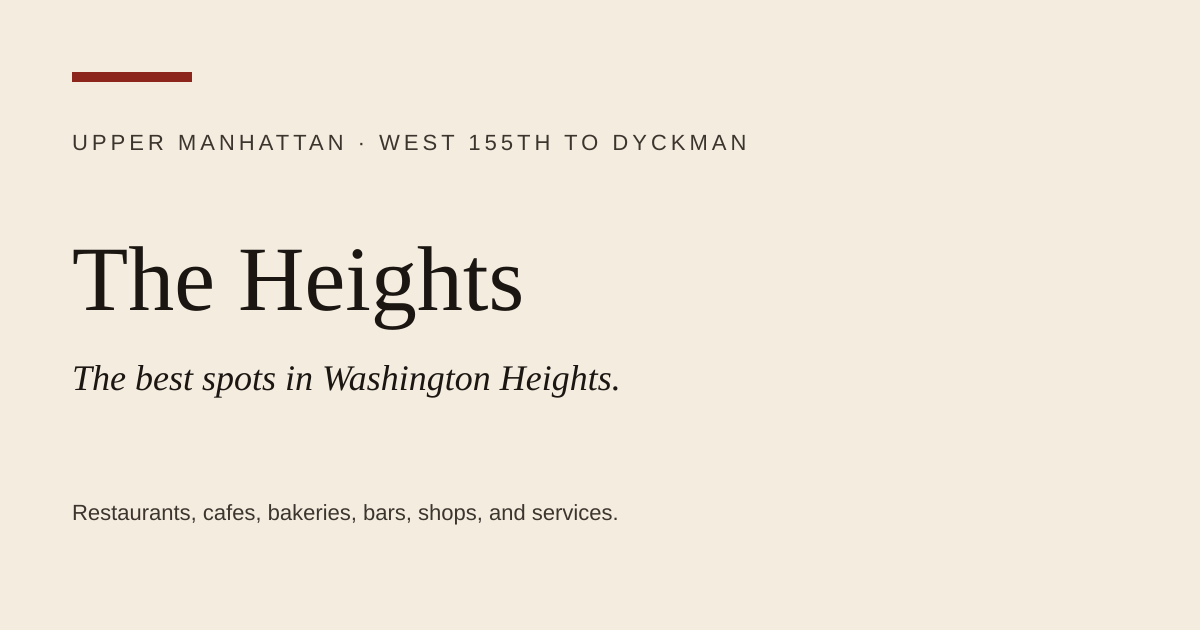
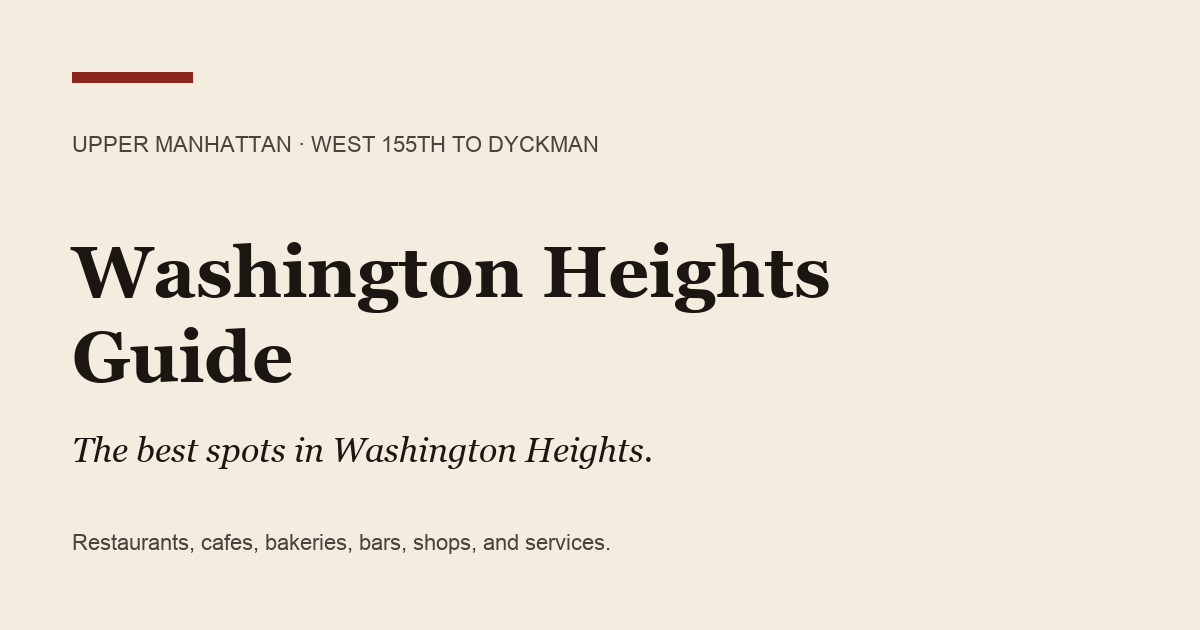
Rebrand site as Washington Heights Guide

diff --git a/src/lib/site.ts b/src/lib/site.ts
@@ -1,10 +1,9 @@
-export const siteName = 'The Heights';
+export const siteName = 'Washington Heights Guide';
 
 export const defaultDescription =
   'A curated guide to restaurants, cafes, bakeries, bars, shops, services, and landmarks in Washington Heights, from West 155th Street to the Dyckman edge of Inwood.';
 
-/** Replace this before launch. It is not a working mailbox. */
-export const correctionsEmail = 'corrections@example.com';
+export const correctionsEmail = 'washingtonheightsguide@gmail.com';
 
 export const scopeLine =
   'Washington Heights, from West 155th Street to the Dyckman edge of Inwood.';

diff --git a/src/lib/jsonld.ts b/src/lib/jsonld.ts
@@ -18,7 +18,7 @@ export function websiteJsonLd(url: string, description: string) {
   return {
     '@context': 'https://schema.org',
     '@type': 'WebSite',
-    name: 'The Heights',
+    name: 'Washington Heights Guide',
     description,
     url,
     inLanguage: 'en-US',

diff --git a/README.md b/README.md
@@ -1,4 +1,4 @@
-# The Heights
+# Washington Heights Guide
 
 A fast, static guide to Washington Heights, NYC — roughly West 155th Street to the Dyckman edge of Inwood. Restaurants, cafes, bakeries, bars, shops, services, and landmarks, plus notes on smaller areas and on people and events tied to the neighborhood. Listings, areas, and people are Markdown files. Adding one is a new file and a commit.
 
@@ -41,19 +41,19 @@ npm run build:examples
 
 ## Deploy on Vercel
 
-The project is ready for a static deploy. Nothing here is connected to Vercel.
+The project is deployed as a static site on Vercel.
 
 1. Import this repository in Vercel.
 2. Framework preset: **Astro**.
 3. Build command: `npm run build`.
 4. Output directory: `dist`.
 5. Node.js 22.23.4 or newer.
-6. Set the `SITE` environment variable to the public origin, with no trailing slash, for Production (and Preview, if you want those URLs to match). Example: `https://theheights.guide`.
+6. Set the `SITE` environment variable to the public origin, with no trailing slash, for Production (and Preview, if you want those URLs to match). Example: `https://washingtonheightsguide.com`.
 7. Leave `INCLUDE_EXAMPLES` unset.
 
 No `vercel.json` and no adapter. Astro’s static output is the whole site. Canonical URLs, Open Graph tags, `robots.txt`, and the sitemap are baked in at build time, so change `SITE` and rebuild when the domain changes.
 
-The default origin, when `SITE` is unset, is `https://theheights.guide`. That domain is a placeholder until someone owns it and sets `SITE`.
+The default origin, when `SITE` is unset, is `https://washingtonheightsguide.com`.
 
 ## Listing format
 
@@ -375,8 +375,6 @@ Leave them in the repo or delete them once real files exist. Production builds o
 
 ## Still needs a person
 
-- Buy or connect a domain, then set `SITE` in Vercel to that origin and redeploy.
-- Import the repo in Vercel (or another static host). This repository does not deploy itself.
-- Replace `corrections@example.com` in `src/lib/site.ts`. The footer and About page currently say that mailbox is not real.
+- Connect `washingtonheightsguide.com` to the Vercel project and set `SITE` to `https://washingtonheightsguide.com`.
+- Confirm `washingtonheightsguide@gmail.com` is the preferred corrections mailbox.
 - Write real listings, area notes, and people notes. The public production build is the guide’s shell until those files exist.
-- Confirm `https://theheights.guide` is the name you want, if you use the default instead of `SITE`.

diff --git a/src/content/guides/best-dominican-restaurants-washington-heights.md b/src/content/guides/best-dominican-restaurants-washington-heights.md
@@ -31,6 +31,6 @@ sources:
 
 A plate of rice, beans, and something stewed, fried, or mashed from a plantain is a natural way to start eating in Washington Heights. This guide is for first-timers who want a reliable starting point and for locals deciding where to take out-of-town friends.
 
-We started with the Dominican and Dominican-adjacent restaurants already listed on The Heights and ranked them by fit: how well each one delivers classic Dominican cooking, and what kind of meal it suits. Picks are editorial: the order is our judgment, not star ratings, review counts, or any scoring system, and every place is a listing on The Heights with its own page, sources, and verdict.
+We started with the Dominican and Dominican-adjacent restaurants already listed on Washington Heights Guide and ranked them by fit: how well each one delivers classic Dominican cooking, and what kind of meal it suits. Picks are editorial: the order is our judgment, not star ratings, review counts, or any scoring system, and every place is a listing on Washington Heights Guide with its own page, sources, and verdict.
 
 Hours and menus change, and some of these listings note that sources disagree, so check before a special trip.

diff --git a/src/content/guides/hudson-heights-essentials.md b/src/content/guides/hudson-heights-essentials.md
@@ -55,6 +55,6 @@ sources:
 
 Hudson Heights is the hilltop corner of Washington Heights, with commercial strips along W 181st Street and W 187th Street. This guide is for visitors heading to Fort Tryon Park and The Cloisters, and for new neighbors looking for the places that anchor the area.
 
-We chose from the Hudson Heights listings on The Heights, covering parks, a museum, cafes, restaurants, bars, and a bookshop, and ranked them by how essential each is to understanding the area. Picks are editorial: the order is our judgment, not star ratings, review counts, or any scoring system, and every place is a listing on The Heights with its own page, sources, and verdict.
+We chose from the Hudson Heights listings on Washington Heights Guide, covering parks, a museum, cafes, restaurants, bars, and a bookshop, and ranked them by how essential each is to understanding the area. Picks are editorial: the order is our judgment, not star ratings, review counts, or any scoring system, and every place is a listing on Washington Heights Guide with its own page, sources, and verdict.
 
 Some places here close early, and a few have details we could not fully confirm. Each listing page says what was checked.

diff --git a/src/content/guides/best-parks-and-views-washington-heights.md b/src/content/guides/best-parks-and-views-washington-heights.md
@@ -42,6 +42,6 @@ sources:
 
 Manhattan's highest natural point is in Washington Heights, so the best parks here come with hills, river views, and a bit of history. This guide is for walkers, runners, picnickers, and anyone hunting for a good view of the Hudson or the Harlem River.
 
-We chose from the parks and outdoor landmarks listed on The Heights and ranked them by how well they work for a park visit and how good the views are according to their sources. Picks are editorial: the order is our judgment, not star ratings, review counts, or any scoring system, and every place is a listing on The Heights with its own page, sources, and verdict.
+We chose from the parks and outdoor landmarks listed on Washington Heights Guide and ranked them by how well they work for a park visit and how good the views are according to their sources. Picks are editorial: the order is our judgment, not star ratings, review counts, or any scoring system, and every place is a listing on Washington Heights Guide with its own page, sources, and verdict.
 
 These are hilly places, and some paths and gates have their own hours or seasonal closures. We note where a listing says conditions were not checked.

diff --git a/src/content/guides/history-lovers-guide-washington-heights.md b/src/content/guides/history-lovers-guide-washington-heights.md
@@ -50,6 +50,6 @@ sources:
 
 The neighborhood's name traces back to Fort Washington, the Revolutionary War fort that fell in 1776. This guide is for history readers who want to see where the fort stood, visit the Malcolm X memorial, and cross the city's oldest standing bridge, and for anyone who likes a neighborhood with layers.
 
-We chose from the landmark and history-linked listings on The Heights and ranked them by how much history each one carries and how much of it a visitor can actually see. Picks are editorial: the order is our judgment, not star ratings, review counts, or any scoring system, and every place is a listing on The Heights with its own page, sources, and verdict.
+We chose from the landmark and history-linked listings on Washington Heights Guide and ranked them by how much history each one carries and how much of it a visitor can actually see. Picks are editorial: the order is our judgment, not star ratings, review counts, or any scoring system, and every place is a listing on Washington Heights Guide with its own page, sources, and verdict.
 
 Several of these are exteriors or buildings you see best with a ticket. Each blurb says what you can and cannot do.

diff --git a/src/content/guides/a-day-in-washington-heights-first-time-visitors.md b/src/content/guides/a-day-in-washington-heights-first-time-visitors.md
@@ -50,6 +50,6 @@ sources:
 
 If you only have one day in Washington Heights, this is a route that starts in Hudson Heights and works south and east. It is for first-time visitors who want a mix of green space, history, and a proper meal.
 
-The picks are ordered as a day rather than ranked as a list, from morning coffee to dinner. Picks are editorial: the order is our judgment, not star ratings, review counts, or any scoring system, and every place is a listing on The Heights with its own page, sources, and verdict. We chose places from the listings on The Heights that fit the shape of a day.
+The picks are ordered as a day rather than ranked as a list, from morning coffee to dinner. Picks are editorial: the order is our judgment, not star ratings, review counts, or any scoring system, and every place is a listing on Washington Heights Guide with its own page, sources, and verdict. We chose places from the listings on Washington Heights Guide that fit the shape of a day.
 
 A few cautions: The Met Cloisters is closed on Wednesdays, so adjust the day if you want to go inside. Check hours for each stop before you set out, because the listings flag items that vary.

diff --git a/src/content/guides/best-spots-for-families-washington-heights.md b/src/content/guides/best-spots-for-families-washington-heights.md
@@ -41,6 +41,6 @@ sources:
 
 Washington Heights has plenty of green space, and most of it comes with a playground. This guide is for parents and caregivers planning an outing with kids, whether that means a morning at a playground, a walk to a landmark, or a stop for a book.
 
-We chose from the listings on The Heights that mention playgrounds, children's offerings, or families, and ranked them by how well each fits a day with kids. Picks are editorial: the order is our judgment, not star ratings, review counts, or any scoring system, and every place is a listing on The Heights with its own page, sources, and verdict.
+We chose from the listings on Washington Heights Guide that mention playgrounds, children's offerings, or families, and ranked them by how well each fits a day with kids. Picks are editorial: the order is our judgment, not star ratings, review counts, or any scoring system, and every place is a listing on Washington Heights Guide with its own page, sources, and verdict.
 
 Most of these are parks, so hours and conditions come from NYC Parks. Check the listing page and NYC Parks before you plan around a recreation center or a specific playground.

diff --git a/src/content/guides/best-things-to-do-washington-heights.md b/src/content/guides/best-things-to-do-washington-heights.md
@@ -40,6 +40,6 @@ sources:
 
 Washington Heights has more to see than many visitors expect, from a medieval museum inside a hilltop park to a pedestrian bridge over the Harlem River. This guide is for visitors, new residents, and locals looking for a good afternoon.
 
-We picked from the landmark listings on The Heights, which cover parks, museums, historic buildings, and public spaces, and ranked them by how well each works as a destination in itself. Picks are editorial: the order is our judgment, not star ratings, review counts, or any scoring system, and every place is a listing on The Heights with its own page, sources, and verdict.
+We picked from the landmark listings on Washington Heights Guide, which cover parks, museums, historic buildings, and public spaces, and ranked them by how well each works as a destination in itself. Picks are editorial: the order is our judgment, not star ratings, review counts, or any scoring system, and every place is a listing on Washington Heights Guide with its own page, sources, and verdict.
 
 Several of these have limited hours or are closed on certain days, so each blurb notes what to check first.

diff --git a/src/content/guides/best-late-night-food-washington-heights.md b/src/content/guides/best-late-night-food-washington-heights.md
@@ -33,6 +33,6 @@ sources:
 
 Washington Heights does late nights well, with a Cuban-Dominican diner that lists itself as open 24 hours and a few spots serving until 2am. This guide is for night owls, shift workers, and anyone coming out of a show at the United Palace who is hungry.
 
-We chose from listings that state late hours or an overnight schedule, and ranked them by how late they stay open and how well they work as a place to eat. Picks are editorial: the order is our judgment, not star ratings, review counts, or any scoring system, and every place is a listing on The Heights with its own page, sources, and verdict.
+We chose from listings that state late hours or an overnight schedule, and ranked them by how late they stay open and how well they work as a place to eat. Picks are editorial: the order is our judgment, not star ratings, review counts, or any scoring system, and every place is a listing on Washington Heights Guide with its own page, sources, and verdict.
 
 Late hours are the detail most likely to be out of date, and several listings say their sources disagree. Call before you set out in the small hours.

diff --git a/src/content/guides/best-brunch-washington-heights.md b/src/content/guides/best-brunch-washington-heights.md
@@ -32,6 +32,6 @@ sources:
 
 Brunch is not the first thing Washington Heights is known for, and the neighborhood has fewer dedicated brunch spots than some others. This guide is for anyone planning a weekend meal here and wanting the places that state a brunch service in their own materials.
 
-We included only listings whose sources mention brunch, and ranked them by how clearly brunch is part of what the place offers. Picks are editorial: the order is our judgment, not star ratings, review counts, or any scoring system, and every place is a listing on The Heights with its own page, sources, and verdict.
+We included only listings whose sources mention brunch, and ranked them by how clearly brunch is part of what the place offers. Picks are editorial: the order is our judgment, not star ratings, review counts, or any scoring system, and every place is a listing on Washington Heights Guide with its own page, sources, and verdict.
 
 Weekend schedules shift. Where a place's own pages disagree on brunch hours, the blurb says so; confirm before you go, and reserve where the place takes reservations.
